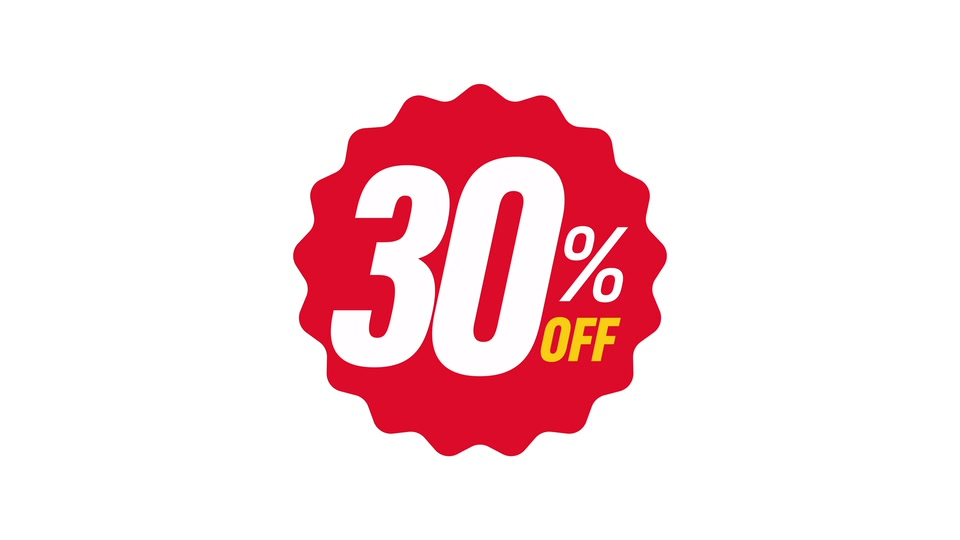
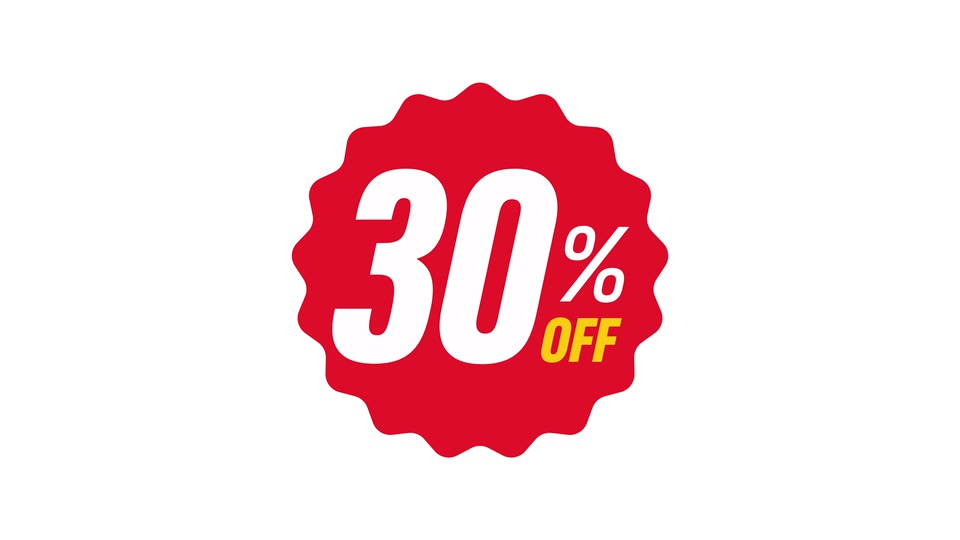
Use first frame for badge preview

diff --git a/projects/30-badge/index.html b/projects/30-badge/index.html
@@ -15,7 +15,7 @@
   <meta property="og:title" content="30% Badge — Meico Studio">
   <meta property="og:description" content="A bold discount badge that lands with a quick animated accent.">
   <meta property="og:url" content="https://meico-studio.github.io/projects/30-badge/">
-  <meta property="og:image" content="https://meico-studio.github.io/assets/posters/30-percent-badge.jpg?v=preview-frame-20261020">
+  <meta property="og:image" content="https://meico-studio.github.io/assets/posters/30-percent-badge.jpg?v=preview-first-frame-20261020">
   <meta property="og:image:alt" content="30% Badge animation preview">
   <meta property="og:image:type" content="image/jpeg">
   <meta property="og:image:width" content="960">
@@ -23,7 +23,7 @@
   <meta name="twitter:card" content="summary_large_image">
   <meta name="twitter:title" content="30% Badge — Meico Studio">
   <meta name="twitter:description" content="A bold discount badge that lands with a quick animated accent.">
-  <meta name="twitter:image" content="https://meico-studio.github.io/assets/posters/30-percent-badge.jpg?v=preview-frame-20261020">
+  <meta name="twitter:image" content="https://meico-studio.github.io/assets/posters/30-percent-badge.jpg?v=preview-first-frame-20261020">
   <script>window.location.replace("https://meico-studio.github.io/?project=30-badge&route=project-route-fix-20261019-5");</script>
 </head>
 <body class="project-share-page">
@@ -33,7 +33,7 @@
   </header>
   <main class="project-share-main">
     <div class="project-share-media">
-      <video controls playsinline preload="metadata" poster="../../assets/posters/30-percent-badge.jpg?v=preview-frame-20261020">
+      <video controls playsinline preload="metadata" poster="../../assets/posters/30-percent-badge.jpg?v=preview-first-frame-20261020">
         <source src="../../assets/videos/30-percent-badge.mp4?v=trim-6s-20261020" type="video/mp4">
       </video>
     </div>

diff --git a/index.html b/index.html
@@ -21,7 +21,7 @@
     <meta name="twitter:image" content="https://meico-studio.github.io/assets/posters/shopping-bag.jpg" />
     <link rel="icon" type="image/svg+xml" href="assets/favicon.svg" />
     <link rel="stylesheet" href="styles.css?v=hero-compass-document-20261020" />
-    <script src="projects.js?v=badge-poster-20261020" defer></script>
+    <script src="projects.js?v=badge-first-frame-20261020" defer></script>
     <script src="app.js?v=hero-random-rotation-20261020" defer></script>
   </head>
   <body>

diff --git a/projects.js b/projects.js
@@ -128,7 +128,7 @@ window.MEICO_PROJECTS = [
       "Badge"
     ],
     "description": "A bold discount badge that lands with a quick animated accent.",
-    "poster": "assets/posters/30-percent-badge.jpg?v=preview-frame-20261020",
+    "poster": "assets/posters/30-percent-badge.jpg?v=preview-first-frame-20261020",
     "preview": "assets/videos/30-percent-badge.mp4?v=trim-6s-20261020",
     "video": "assets/videos/30-percent-badge.mp4?v=trim-6s-20261020"
   },
